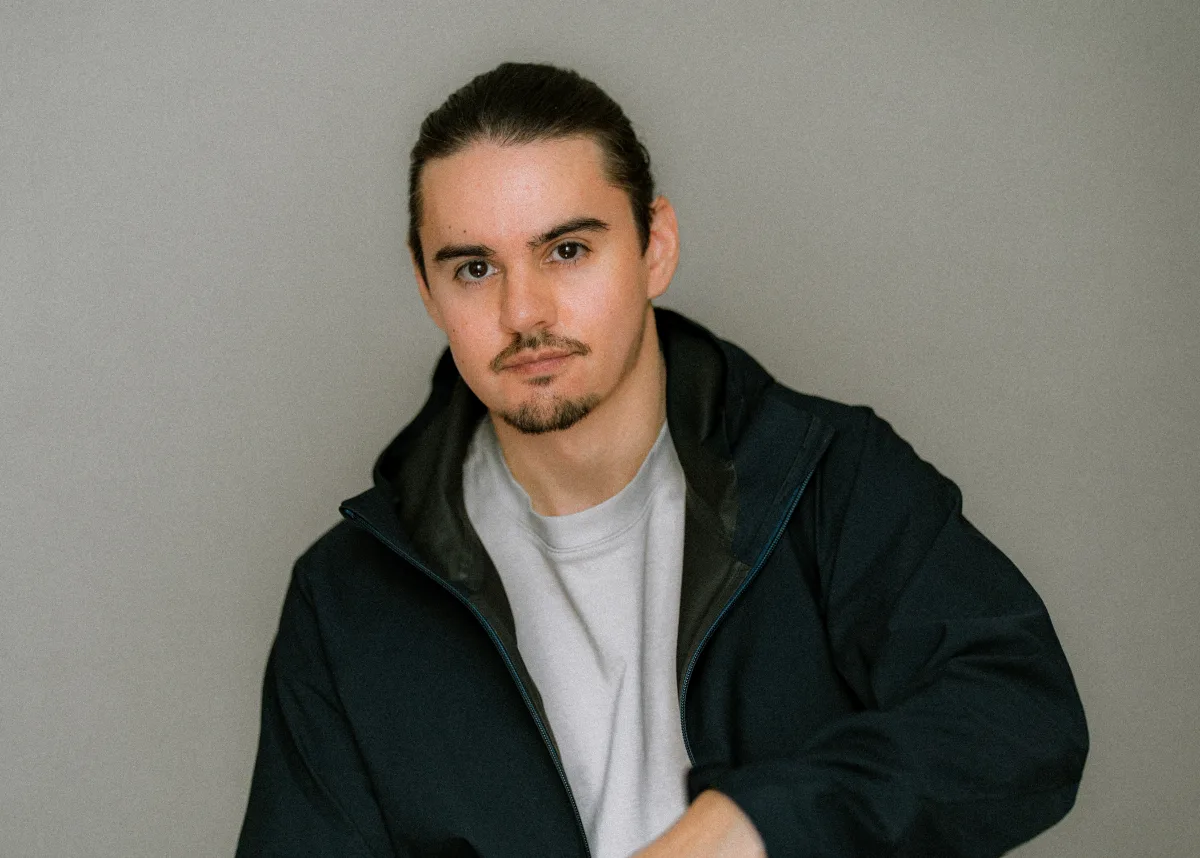
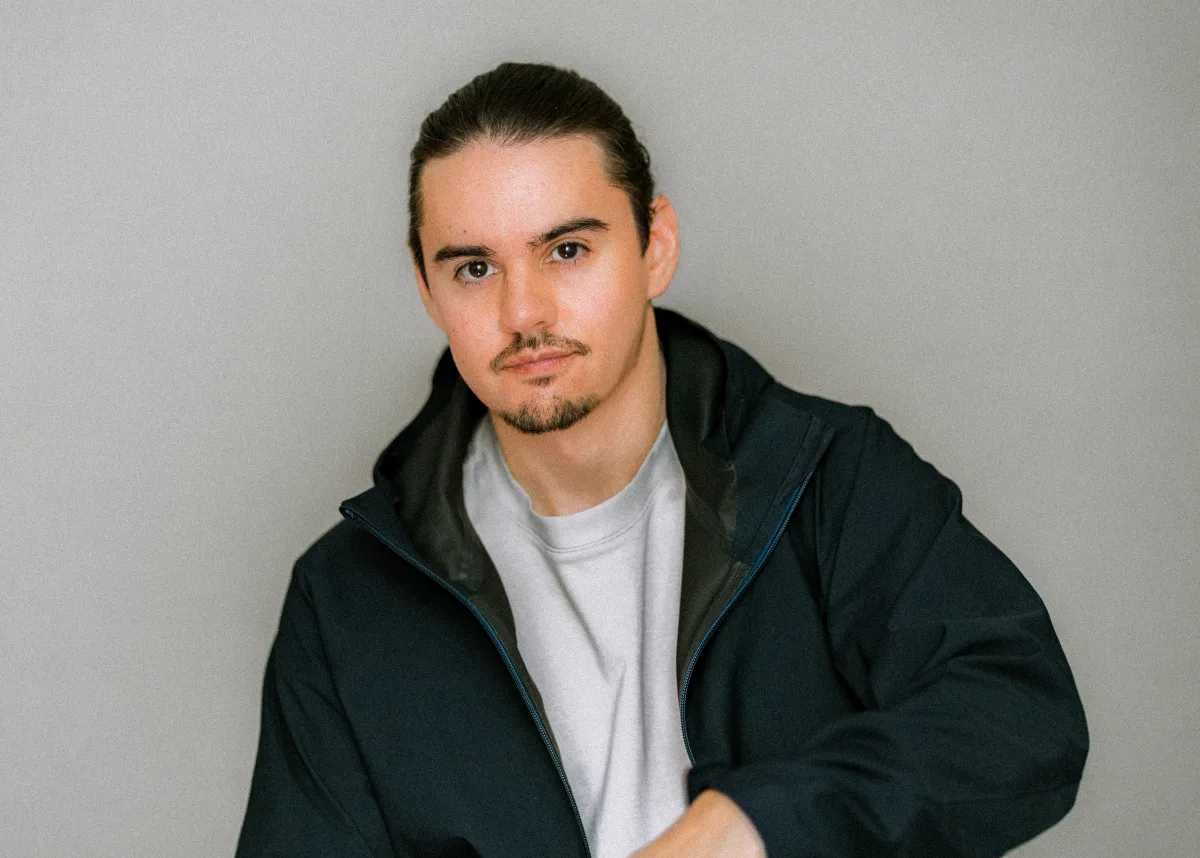
Use Cinzel name lettering and revised portrait lighting

diff --git a/index.html b/index.html
@@ -15,7 +15,7 @@
   <meta property="og:image:alt" content="AWE observation swath above weather systems over North America, from the official USU visualization gallery.">
   <link rel="preconnect" href="https://fonts.googleapis.com">
   <link rel="preconnect" href="https://fonts.gstatic.com" crossorigin>
-  <link href="https://fonts.googleapis.com/css2?family=Great+Vibes&amp;family=Source+Sans+3:wght@400;500;600&amp;family=Source+Serif+4:wght@400;500;600&amp;display=swap" rel="stylesheet">
+  <link href="https://fonts.googleapis.com/css2?family=Cinzel:wght@500&amp;family=Source+Sans+3:wght@400;500;600&amp;family=Source+Serif+4:wght@400;500;600&amp;display=swap" rel="stylesheet">
   <link rel="stylesheet" href="assets/css/style.css">
   <script src="assets/js/main.js?v=20260925-carousel" defer></script>
   <script type="application/ld+json">
@@ -58,7 +58,7 @@
         </nav>
       </div>
       <div class="portrait-collage" aria-label="Portrait and personal photographs">
-        <img class="collage-main" src="assets/images/portrait-1200.webp" srcset="assets/images/portrait-600.webp 600w, assets/images/portrait-1200.webp 1200w" sizes="(max-width: 800px) 65vw, 310px" width="1200" height="857" alt="Portrait of Jaime Aguilar Guerrero" fetchpriority="high">
+        <img class="collage-main" src="assets/images/portrait-1200.webp?v=lighting2" srcset="assets/images/portrait-600.webp?v=lighting2 600w, assets/images/portrait-1200.webp?v=lighting2 1200w" sizes="(max-width: 800px) 65vw, 310px" width="1200" height="857" alt="Portrait of Jaime Aguilar Guerrero" fetchpriority="high">
         <img class="collage-outdoors" src="assets/images/portrait-outdoors.webp" width="1000" height="750" alt="Jaime outdoors wearing sunglasses, with fields behind him">
         <img class="collage-music" src="assets/images/portrait-music.webp" width="1000" height="750" alt="Jaime playing guitar overlooking wooded mountains">
       </div>

diff --git a/assets/css/style.css b/assets/css/style.css
@@ -41,7 +41,7 @@ img { display: block; max-width: 100%; height: auto; }
 }
 .hero.has-portrait { display: grid; grid-template-columns: minmax(0, 1.8fr) minmax(0, 1fr); gap: 60px; align-items: start; }
 h1 { font-size: clamp(48px, 5.5vw, 74px); line-height: 1.06; font-weight: 500; letter-spacing: -.045em; }
-#intro-title { font-family: "Great Vibes", cursive; font-size: clamp(28px, 10.5cqw, 80px); font-weight: 400; line-height: 1.35; letter-spacing: 0; white-space: nowrap; }
+#intro-title { font-family: "Cinzel", serif; font-size: clamp(18px, 7.2cqw, 64px); font-weight: 500; line-height: 1.35; letter-spacing: -.015em; white-space: nowrap; }
 .role { color: var(--muted); margin-top: 20px; font-size: 18px; }
 .hero-statement { font: 400 clamp(24px, 2.35vw, 32px)/1.35 var(--serif); letter-spacing: -.02em; margin-top: 32px; }
 .hero-divider { max-width: 560px; margin-top: 24px; color: var(--accent); opacity: .65; }

diff --git a/CONTENT_SOURCES.md b/CONTENT_SOURCES.md
@@ -81,3 +81,5 @@ CEDAR workshop title: “Impacts of Natural and Artificial Hazards on the Upper 
 ## Three-photo introduction collage
 
 User selected overlapping layout C. The main portrait remains largest. Additional user-supplied originals are `Pictures/Photos Exports/IMG_0624.HEIC` (outdoor portrait) and `Pictures/Photos Exports/IMG_6562.HEIC` (guitar photograph), under the user's iCloud Drive. Originals were preserved. HEIC files were decoded with heif-convert and exported as 1000-pixel-wide WebP copies at quality 82 with metadata removed: `portrait-outdoors.webp` and `portrait-music.webp`. Cropping is implemented with CSS object-fit/object-position; no image content was generated or altered. Photographer credits remain to be confirmed.
+
+Main portrait updated to the user-supplied lighting revision `Pictures/Lightroom Exports/DSC08546_CRNR04.jpg` on September 25, 2026. The 600px and 1200px WebP copies were regenerated at quality 82 with metadata removed; the original is unchanged. The user selected Cinzel (option A) for the name.
